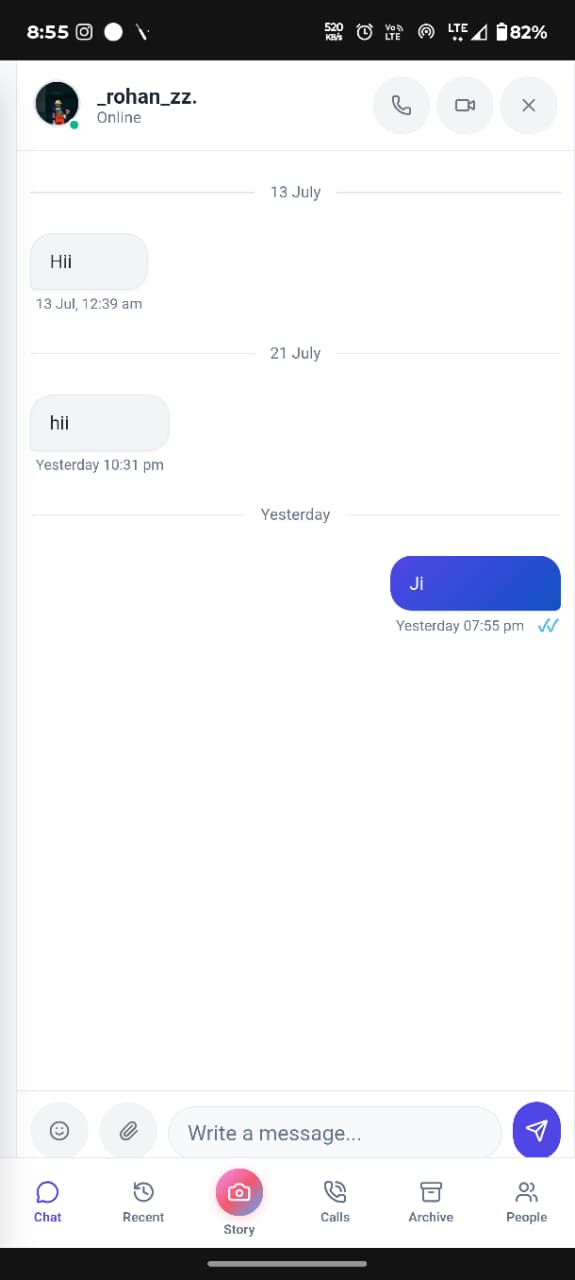
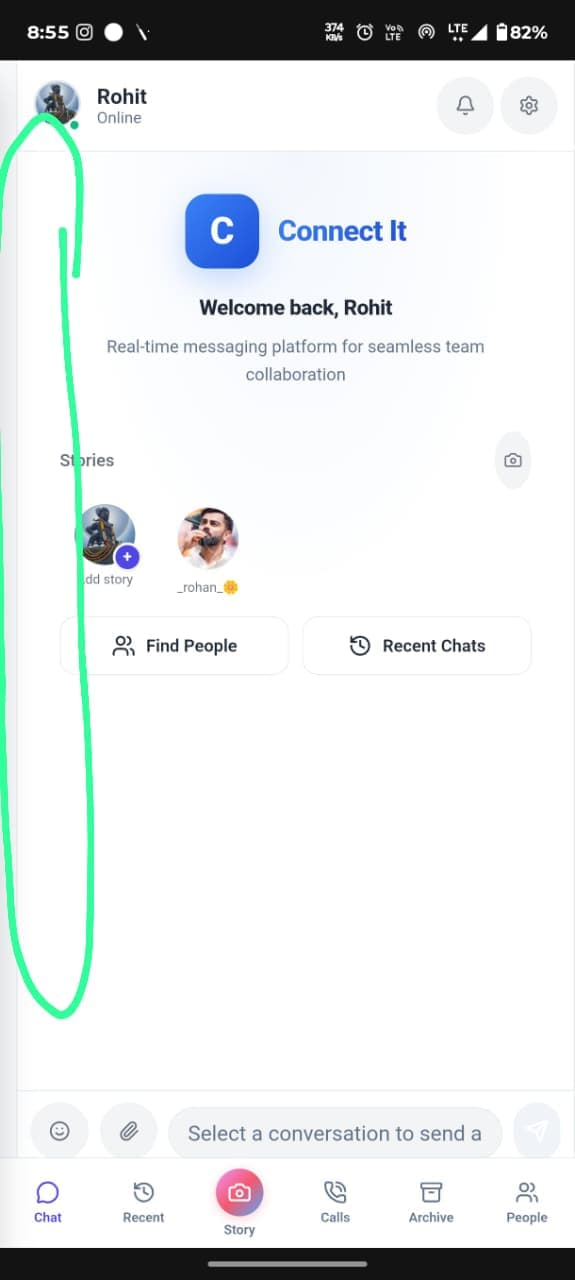
fix: match chat-panel padding-bottom to full bottom-nav height including safe-area, unify backgrounds to prevent sub-pixel gaps

diff --git a/client/src/components/Chat.css b/client/src/components/Chat.css
@@ -224,6 +224,7 @@ body {
     grid-template-columns: 1fr;
     height: 100dvh;
     overflow: hidden;
+    background: var(--background-white);
   }
 
   .sidebar {
@@ -315,7 +316,7 @@ body {
     display: flex;
     flex-direction: column;
     overflow: hidden;
-    padding-bottom: 52px;
+    padding-bottom: calc(53px + env(safe-area-inset-bottom, 0px));
     position: relative;
     border-left: none !important;
     border-right: none !important;

diff --git a/client/src/index.css b/client/src/index.css
@@ -94,6 +94,7 @@ code {
   html, body {
     overflow-x: hidden;
     max-width: 100vw;
+    background: #ffffff;
   }
 }
 
